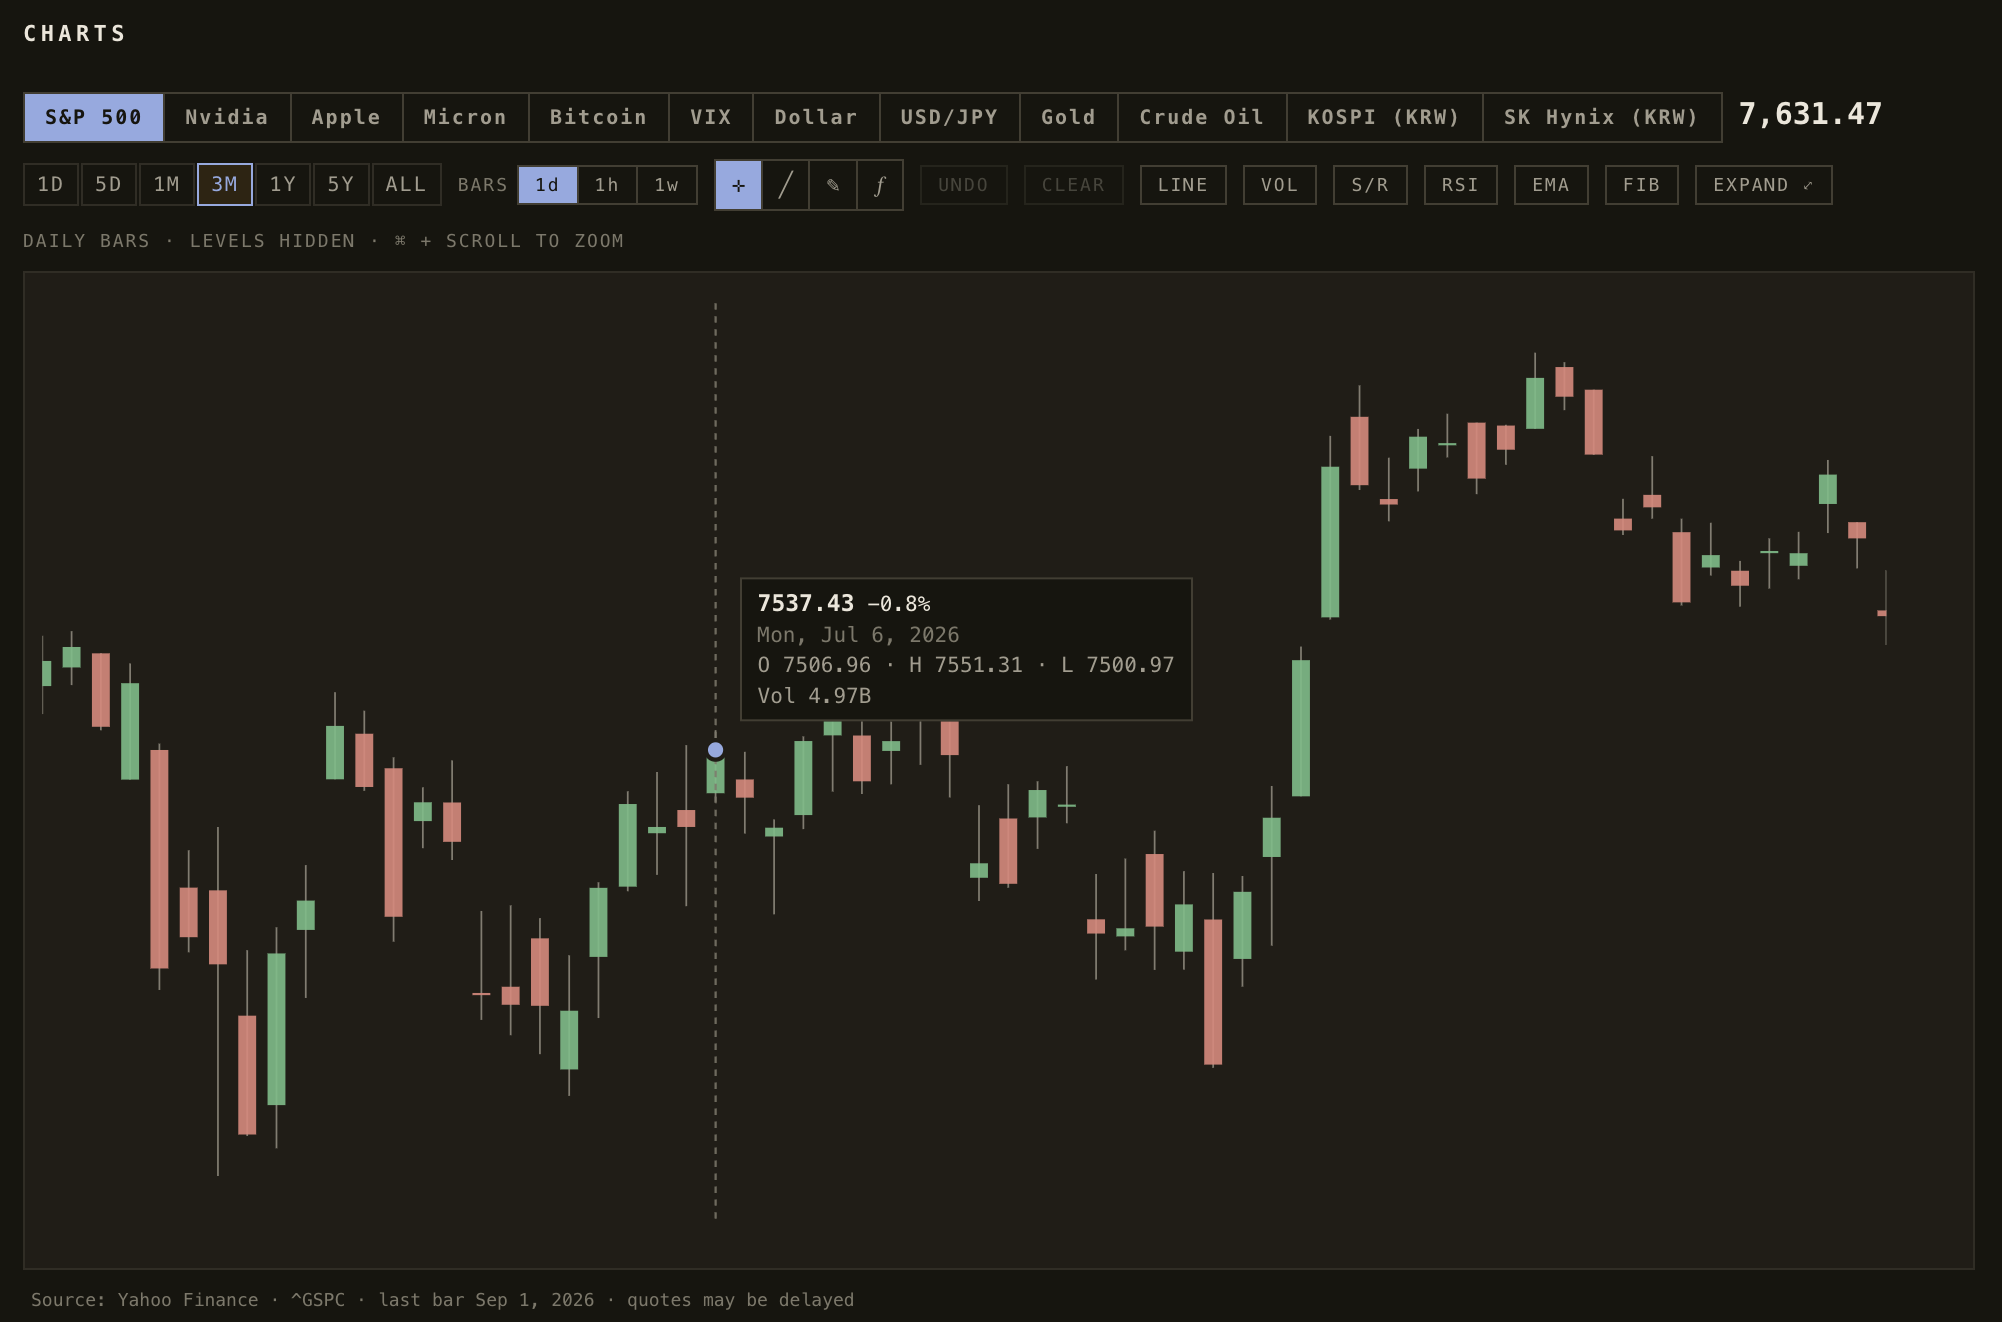
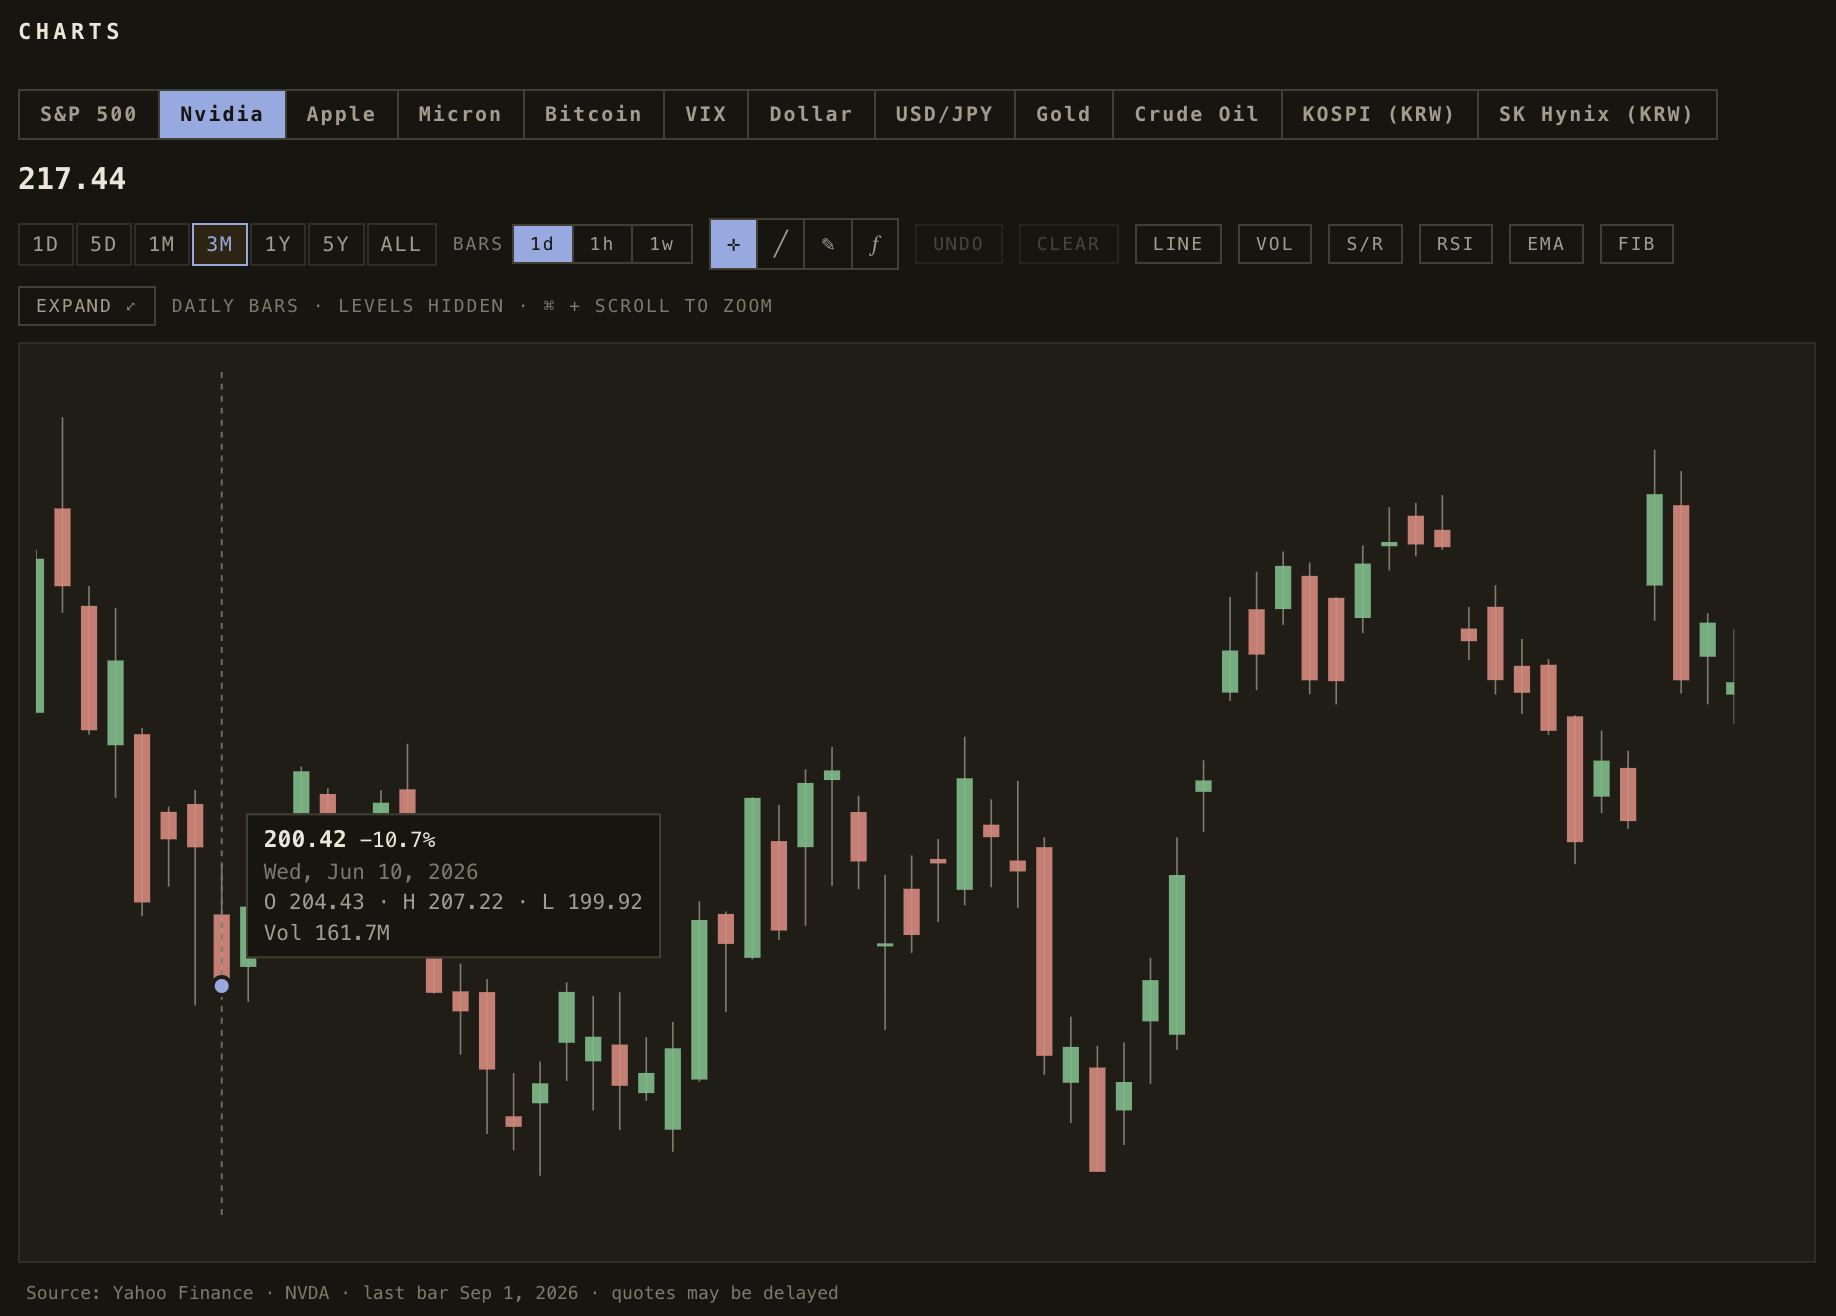
Show the Nvidia chart in the Buy Side study
Claude-Session: https://claude.ai/code/session_01PMjnzwSkUCXhYtShDJKjLg

diff --git a/src/data/case-studies.ts b/src/data/case-studies.ts
@@ -512,11 +512,12 @@ export const caseStudies: Record<string, CaseStudy> = {
         type: "text",
         text: "I used Claude Code to build live data visualizations. I added a chart to quickly visualize a stock.",
       },
+      
       {
         type: "image",
         src: "/projects/buy-side-chart.png",
         width: 620,
-        alt: "The charts panel: a row of tickers with S&P 500 selected, range and bar controls under it, and a three month candlestick chart with a hover card on the July 6 bar showing its open, high, low, and volume",
+        alt: "The charts panel: a row of tickers with Nvidia selected, range and bar controls under it, and a three month candlestick chart with a hover card on the June 10 bar showing its open, high, low, and volume",
       },
 
 
